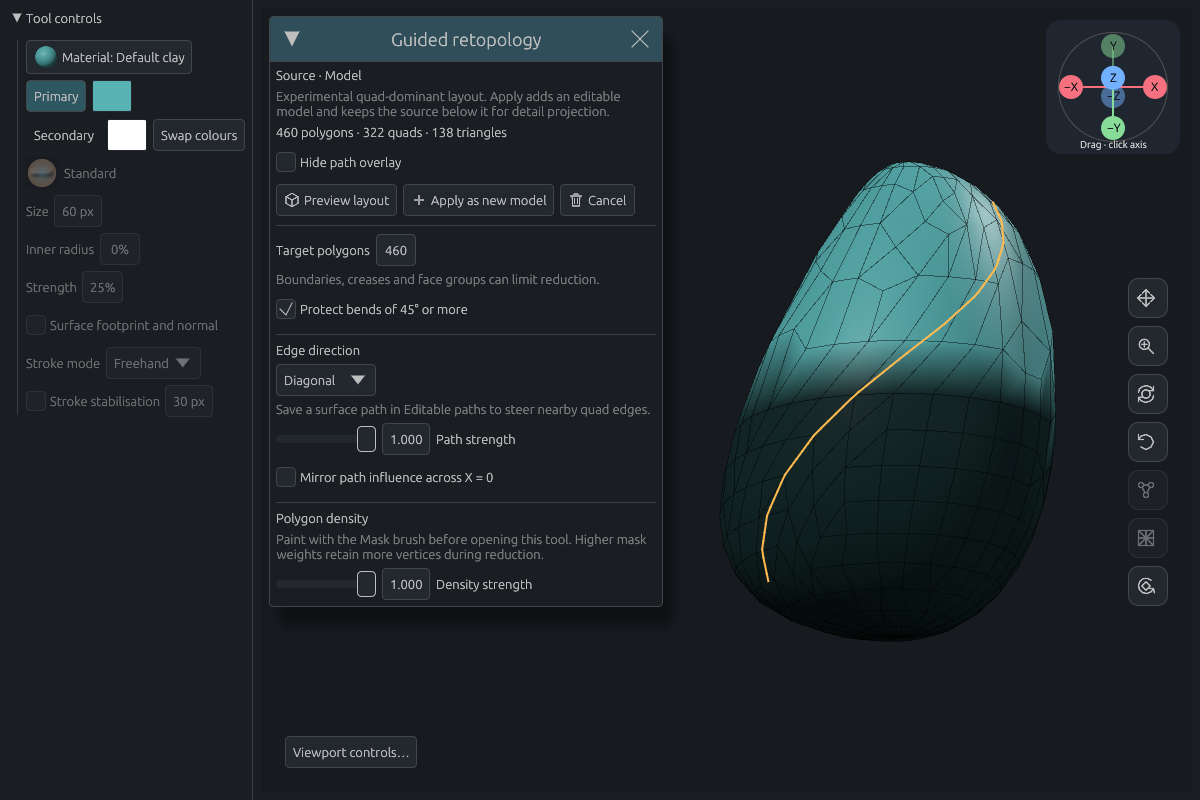
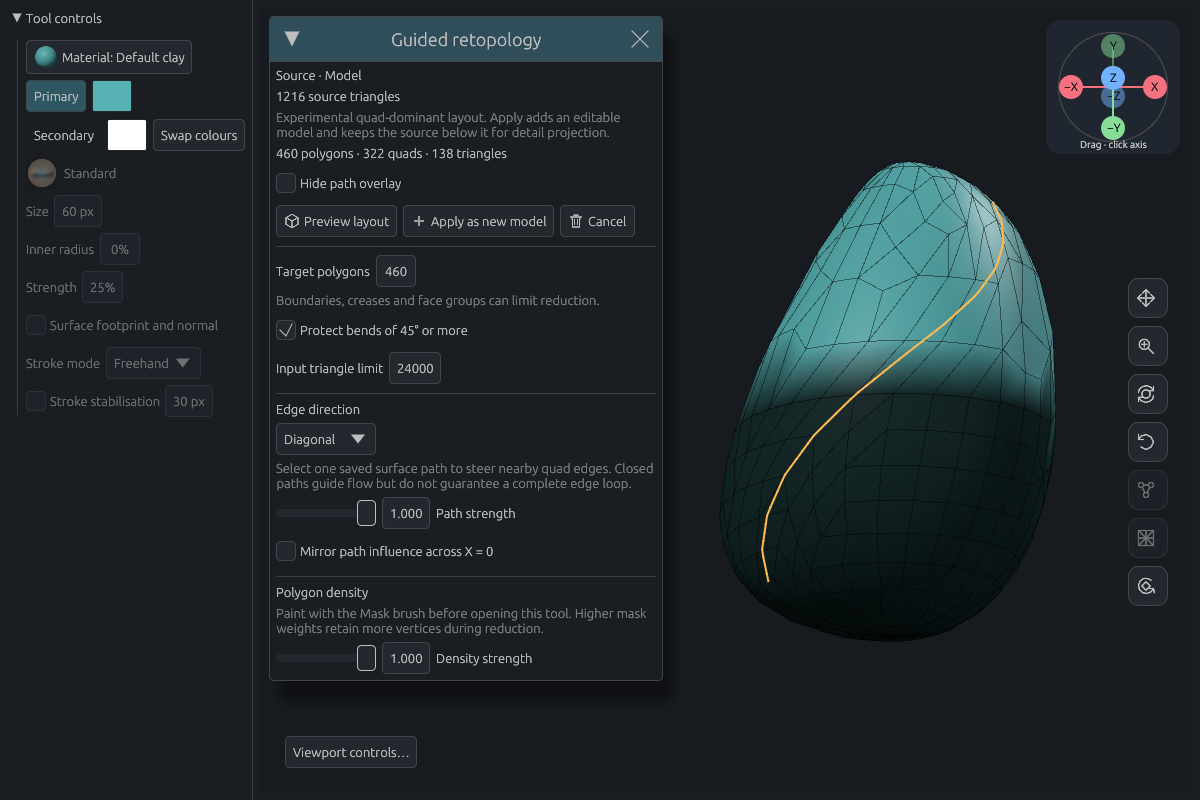
Make the guided retopology input limit adjustable for testing

Changed region(s): [[0.2158, 0.0938, 0.555, 0.8438]]

diff --git a/src/ui/retopology.rs b/src/ui/retopology.rs
@@ -14,6 +14,17 @@ impl ProjectionControls {
             &mut self.layout.preserve_sharp,
             "Protect bends of 45° or more",
         );
+        ui.horizontal(|ui| {
+            ui.label("Input triangle limit");
+            design::help(
+                ui.add(
+                    egui::DragValue::new(&mut self.layout.input_triangle_limit)
+                        .range(1..=crate::sculpt::max_triangles())
+                        .speed(1_000),
+                ),
+                "Defaults to 24,000. Raise for larger tests, up to the active mesh capacity. Higher limits may use more time and memory. Kept for this app session.",
+            );
+        });
 
         ui.separator();
         ui.label("Edge direction");
@@ -28,7 +39,7 @@ impl ProjectionControls {
                     ui.selectable_value(&mut self.flow_path, Some(path.id), &path.name);
                 }
             });
-        ui.weak("Save a surface path in Editable paths to steer nearby quad edges.");
+        ui.weak("Select one saved surface path to steer nearby quad edges. Closed paths guide flow but do not guarantee a complete edge loop.");
         ui.add_enabled_ui(self.flow_path.is_some(), |ui| {
             ui.add(egui::Slider::new(&mut self.layout.flow, 0. ..=1.).text("Path strength"));
             ui.checkbox(
@@ -61,7 +72,12 @@ impl UiState {
         window.show(ctx, |ui| {
             let source = document.model(document.active_model_index()).unwrap();
             ui.label(format!("Source · {}", source.name));
+            ui.label(format!("{} source triangles", document.mesh().triangles.len()));
             ui.weak("Experimental quad-dominant layout. Apply adds an editable model and keeps the source below it for detail projection.");
+            let budget = state.layout.require_input_budget(document.mesh());
+            if let Err(error) = &budget {
+                ui.label(error);
+            }
             if state.busy {
                 ui.spinner();
             }
@@ -74,7 +90,10 @@ impl UiState {
             let mut requested = None;
             ui.horizontal_wrapped(|ui| {
                 let preview = design::button(ui, Glyph::Mesh, "Preview layout");
-                if ui.add_enabled(!state.busy, preview).clicked() {
+                if design::help(
+                    ui.add_enabled(!state.busy && budget.is_ok(), preview),
+                    budget.as_ref().err().map(String::as_str).unwrap_or("Compute a private layout preview"),
+                ).clicked() {
                     requested = Some(Command::PreviewProjection);
                 }
                 let apply = design::button(ui, Glyph::Plus, "Apply as new model");
@@ -89,7 +108,7 @@ impl UiState {
             ui.separator();
             let old = (state.layout, state.flow_path);
             egui::ScrollArea::vertical()
-                .max_height((ctx.content_rect().height() - 235.).max(50.))
+                .max_height((ctx.content_rect().height() - 300.).max(50.))
                 .show(ui, |ui| {
                     ui.add_enabled_ui(!state.busy, |ui| state.layout_options(ui, document));
                 });

diff --git a/src/app/tests/projection.rs b/src/app/tests/projection.rs
@@ -426,6 +426,74 @@ fn guided_retopology_keeps_source_and_attributes_and_roundtrips_as_one_edit() {
 }
 
 #[test]
+fn guided_retopology_input_limit_allows_larger_preview_and_apply() {
+    use crate::sculpt::Vec3;
+    // An open strip just above the default budget. Boundary protection keeps
+    // reduction cheap while pairing still produces an editable quad result.
+    let cells = 12_001;
+    let mut mesh = Mesh::default();
+    for x in 0..=cells {
+        mesh.vertices
+            .extend([Vec3(x as f32, 0., 0.), Vec3(x as f32, 1., 0.)]);
+    }
+    for x in 0..cells {
+        let a = 2 * x;
+        mesh.triangles
+            .extend([[a, a + 2, a + 3], [a, a + 3, a + 1]]);
+    }
+    mesh.mask.resize(mesh.vertices.len(), 0.);
+    let triangles = mesh.triangles.len();
+    let mut app = App::default();
+    app.document.replace_geometry(Geometry::new(mesh)).unwrap();
+    app.document.mark_saved("large-retopology-source.clay");
+    let before = app.document.project();
+    let history = app.document.history_counts();
+    let ctx = egui::Context::default();
+    app.dispatch(Command::Action(Action::GuidedRetopology), &ctx);
+    assert!(
+        app.ui.projection.open,
+        "Larger sources can reach the limit control"
+    );
+    app.dispatch(Command::PreviewProjection, &ctx);
+    assert!(!app.ui.projection.busy);
+    assert!(app.projection.draft.is_none());
+    assert!(
+        app.ui.status.contains("Input triangle limit"),
+        "{}",
+        app.ui.status
+    );
+    assert!(app.document.project() == before && !app.document.is_dirty());
+    assert_eq!(app.document.history_counts(), history);
+
+    app.ui.projection.layout.input_triangle_limit = triangles;
+    app.ui.projection.layout.target = cells;
+    app.dispatch(Command::PreviewProjection, &ctx);
+    finish_projection(&mut app);
+    let draft = app
+        .projection
+        .draft
+        .as_ref()
+        .expect("Raised limit permits preview");
+    assert_eq!(draft.mesh.quads.len(), cells);
+    assert_eq!(
+        draft.settings.view_input.as_ref().unwrap()["guided_retopology"]["input_triangle_limit"],
+        triangles
+    );
+    assert!(app.document.project() == before && !app.document.is_dirty());
+    app.dispatch(Command::ApplyProjection, &ctx);
+    assert_eq!(app.document.model_count(), 2);
+    assert_eq!(app.document.mesh().quads.len(), cells);
+    assert_eq!(
+        app.document.model(1).unwrap().mesh.triangles.len(),
+        triangles
+    );
+    app.dispatch(Command::Undo, &ctx);
+    assert!(app.document.project() == before);
+    app.dispatch(Command::OpenRetopology, &ctx);
+    assert_eq!(app.ui.projection.layout.input_triangle_limit, triangles);
+}
+
+#[test]
 fn guided_retopology_rejects_failed_and_stale_previews_without_adding_models() {
     use crate::sculpt::retopology::tests::fixture;
     let (mut mesh, _) = fixture(false);

diff --git a/src/sculpt/retopology.rs b/src/sculpt/retopology.rs
@@ -7,7 +7,6 @@ use super::{
 };
 use std::collections::{BTreeMap, HashMap};
 
-const MAX_INPUT: usize = 24_000;
 pub(crate) type GuideCurves = std::sync::Arc<[Vec<PathSample>]>;
 
 pub(crate) struct Layout {
@@ -18,6 +17,7 @@ pub(crate) struct Layout {
 
 #[derive(Clone, Copy, Debug, PartialEq)]
 pub(crate) struct Options {
+    pub input_triangle_limit: usize,
     pub target: usize,
     pub flow: f32,
     pub density: f32,
@@ -27,12 +27,31 @@ pub(crate) struct Options {
 impl Default for Options {
     fn default() -> Self {
         Self {
+            input_triangle_limit: 24_000,
             target: 500,
             flow: 1.,
             density: 1.,
             mirror_path_x: false,
             preserve_sharp: true,
         }
+    }
+}
+impl Options {
+    pub(crate) fn require_input_budget(&self, mesh: &Mesh) -> Result<(), String> {
+        if !(1..=super::max_triangles()).contains(&self.input_triangle_limit) {
+            return Err(format!(
+                "Input triangle limit must be between 1 and {}",
+                super::max_triangles()
+            ));
+        }
+        if mesh.triangles.len() > self.input_triangle_limit {
+            return Err(format!(
+                "Source has {} triangles; raise Input triangle limit above {} to preview it",
+                mesh.triangles.len(),
+                self.input_triangle_limit
+            ));
+        }
+        Ok(())
     }
 }
 fn check(cancel: &dyn Fn() -> bool) -> Result<(), String> {
@@ -125,13 +144,9 @@ impl Surface {
 }
 impl Mesh {
     pub(crate) fn require_retopology_input(&self) -> Result<(), String> {
-        if self.triangles.is_empty()
-            || self.triangles.len() > MAX_INPUT
-            || self.vertices.len() > 3 * MAX_INPUT
+        if self.triangles.is_empty() || self.vertices.len() > self.triangles.len().saturating_mul(3)
         {
-            return Err(format!(
-                "The prototype supports 1–{MAX_INPUT} source triangles with no loose vertices"
-            ));
+            return Err("Retopology needs source triangles with no loose vertices".into());
         }
         if !self.uv.is_empty() {
             return Err("Use a source without UVs or textures for guided retopology".into());
@@ -145,6 +160,7 @@ impl Mesh {
         cancel: &impl Fn() -> bool,
     ) -> Result<Layout, String> {
         check(cancel)?;
+        options.require_input_budget(self)?;
         self.require_retopology_input()?;
         self.validate()?;
         if self.has_hidden_faces() {

diff --git a/src/sculpt/retopology/tests.rs b/src/sculpt/retopology/tests.rs
@@ -280,6 +280,41 @@ fn guided_retopology_preserves_open_rims_creases_and_separate_parts() {
 }
 
 #[test]
+fn guided_retopology_worker_enforces_configured_input_limit() {
+    let (mesh, _) = fixture(false);
+    for input_triangle_limit in [
+        0,
+        mesh.triangles.len() - 1,
+        super::super::max_triangles() + 1,
+    ] {
+        let error = mesh
+            .guided_retopology(
+                Options {
+                    input_triangle_limit,
+                    ..Default::default()
+                },
+                None,
+                &|| false,
+            )
+            .err()
+            .unwrap();
+        assert!(
+            error.to_lowercase().contains("input triangle limit"),
+            "{error}"
+        );
+    }
+    mesh.guided_retopology(
+        Options {
+            input_triangle_limit: mesh.triangles.len(),
+            ..Default::default()
+        },
+        None,
+        &|| false,
+    )
+    .unwrap();
+}
+
+#[test]
 fn guided_retopology_mirrors_a_closed_surface_guide_and_rejects_stale_paths() {
     let (mesh, mut path) = fixture(false);
     path.closed = true;

diff --git a/src/app/projection.rs b/src/app/projection.rs
@@ -182,6 +182,7 @@ impl App {
         self.clear_projection_preview();
         self.viewport.cancel(&mut self.document);
         let options = self.ui.projection.layout;
+        options.require_input_budget(self.document.mesh())?;
         let path = self
             .ui
             .projection
@@ -209,7 +210,7 @@ impl App {
         let view = settings
             .view_input
             .get_or_insert_with(|| serde_json::json!({}));
-        view["guided_retopology"] = serde_json::json!({"target":options.target,"path":self.ui.projection.flow_path,"path_strength":options.flow,"density_strength":options.density,"mirror_path_x":options.mirror_path_x,"preserve_sharp":options.preserve_sharp});
+        view["guided_retopology"] = serde_json::json!({"input_triangle_limit":options.input_triangle_limit,"target":options.target,"path":self.ui.projection.flow_path,"path_strength":options.flow,"density_strength":options.density,"mirror_path_x":options.mirror_path_x,"preserve_sharp":options.preserve_sharp});
         self.projection.worker = Some(Worker {
             job,
             revision: self.document.display_revision(),

diff --git a/docs/guide/modeling.md b/docs/guide/modeling.md
@@ -550,10 +550,10 @@ Mesh operations run in the background. Cancel keeps the original surface; Undo r
 
 ## Guide a retopology preview
 
-Use **Mesh → Guided retopology…** to make a lower-polygon copy of a sculpt. This experimental tool accepts open or closed manifold meshes with up to 24,000 source triangles. Convert parametric primitives first, show hidden faces and use a source without UVs or textures.
+Use **Mesh → Guided retopology…** to make a lower-polygon copy of a sculpt. This experimental tool accepts open or closed manifold meshes. Convert parametric primitives first, show hidden faces and use a source without UVs or textures.
 
-1. To direct edges, draw and save a **Surface** path in **Editable paths**. Open curves and closed loops both work. To keep more vertices in an area, paint that area with the **Mask** brush.
-2. Open **Guided retopology…**, set **Target polygons** and choose a path under **Edge direction**. Set **Path strength** and **Density strength** independently. Use **No guide** and zero density strength for an unguided comparison. **Mirror path influence** adds a reflected guide across world X = 0.
+1. To direct edges, draw and save a **Surface** path in **Editable paths**. Open curves and closed loops both work as direction guides; a closed path does not guarantee a continuous edge loop on the path. To keep more vertices in an area, paint that area with the **Mask** brush.
+2. Open **Guided retopology…**, set **Target polygons** and choose one path under **Edge direction**. Set **Path strength** and **Density strength** independently. Use **No guide** and zero density strength for an unguided comparison. **Mirror path influence** adds a reflected guide across world X = 0. **Input triangle limit** defaults to 24,000; raise it to at least the displayed source count to test a larger mesh, up to the active mesh capacity. This limit lasts for the app session, and larger inputs may use more time and memory.
 3. Choose **Preview layout**. Orbit the wireframe, check the actual quad and triangle counts, and use **Hide path overlay** to inspect the edges beneath the guide. Sharp bends, creases and open boundaries can keep the result above target. Change a setting and preview again, or choose **Cancel** to discard the draft.
 4. Choose **Apply as new model**. The editable result contains interpolated vertex paint, mask and group weights. The hidden source below it keeps its paths and subdivision levels. **Undo** reverses the entire operation.
 5. To recover sculpted detail, subdivide the result if it needs more vertices, then use **Project details…** with the model below as the reference. Reduce the result's mask where vertices should move. Save the project to keep both models.

diff --git a/docs/validation/guided-retopology/README.md b/docs/validation/guided-retopology/README.md
@@ -43,7 +43,7 @@ The amber curve shows the selected surface path. The dark region is the source m
 
 ## Limits of the prototype
 
-- The worker accepts up to 24,000 input triangles and valence up to 64. It spends at most 24 simplification sweeps and 16 million guide-sample comparisons. Cancellation, validation errors and stale previews leave the document intact. Dense production sculpts remain outside these measurements.
+- The input triangle limit defaults to 24,000 and can be raised in the dialog for testing, up to the active mesh capacity. It is session-only and captured in edit diagnostics. Oversized sources can open the dialog, but preview requires a sufficient limit before copying the source or starting a worker; the worker checks the limit too. Valence stays capped at 64, with at most 24 simplification sweeps and 16 million guide-sample comparisons. Raising the input limit does not raise those work limits. Cancellation, validation errors and stale previews leave the document intact. Dense production sculpts remain outside these measurements.
 - The target is approximate. Open rims, crease endpoints and face-group boundaries stay fixed. Optional protection also locks bends of 45° or more. Conservative fold and quality checks still apply when that option is off. Sharp features and poles can leave extra polygons. Triangles remaining after pairing stay editable.
 - Separate components stay separate, including open parts. Thin walls keep their connectivity. Nearby same-facing sheets can still pick up guide influence, and the checks do not certify absence of self-intersection. Where a path and its reflection conflict, the nearest compatible sample wins.
 - Hidden faces, loose vertices, inconsistent winding, zero-area faces, nonmanifold edges or pinched vertex fans require cleanup. UVs and texture images require a transfer method before this tool can accept those models. Result models start with one subdivision level. The hidden source keeps its full stack.
